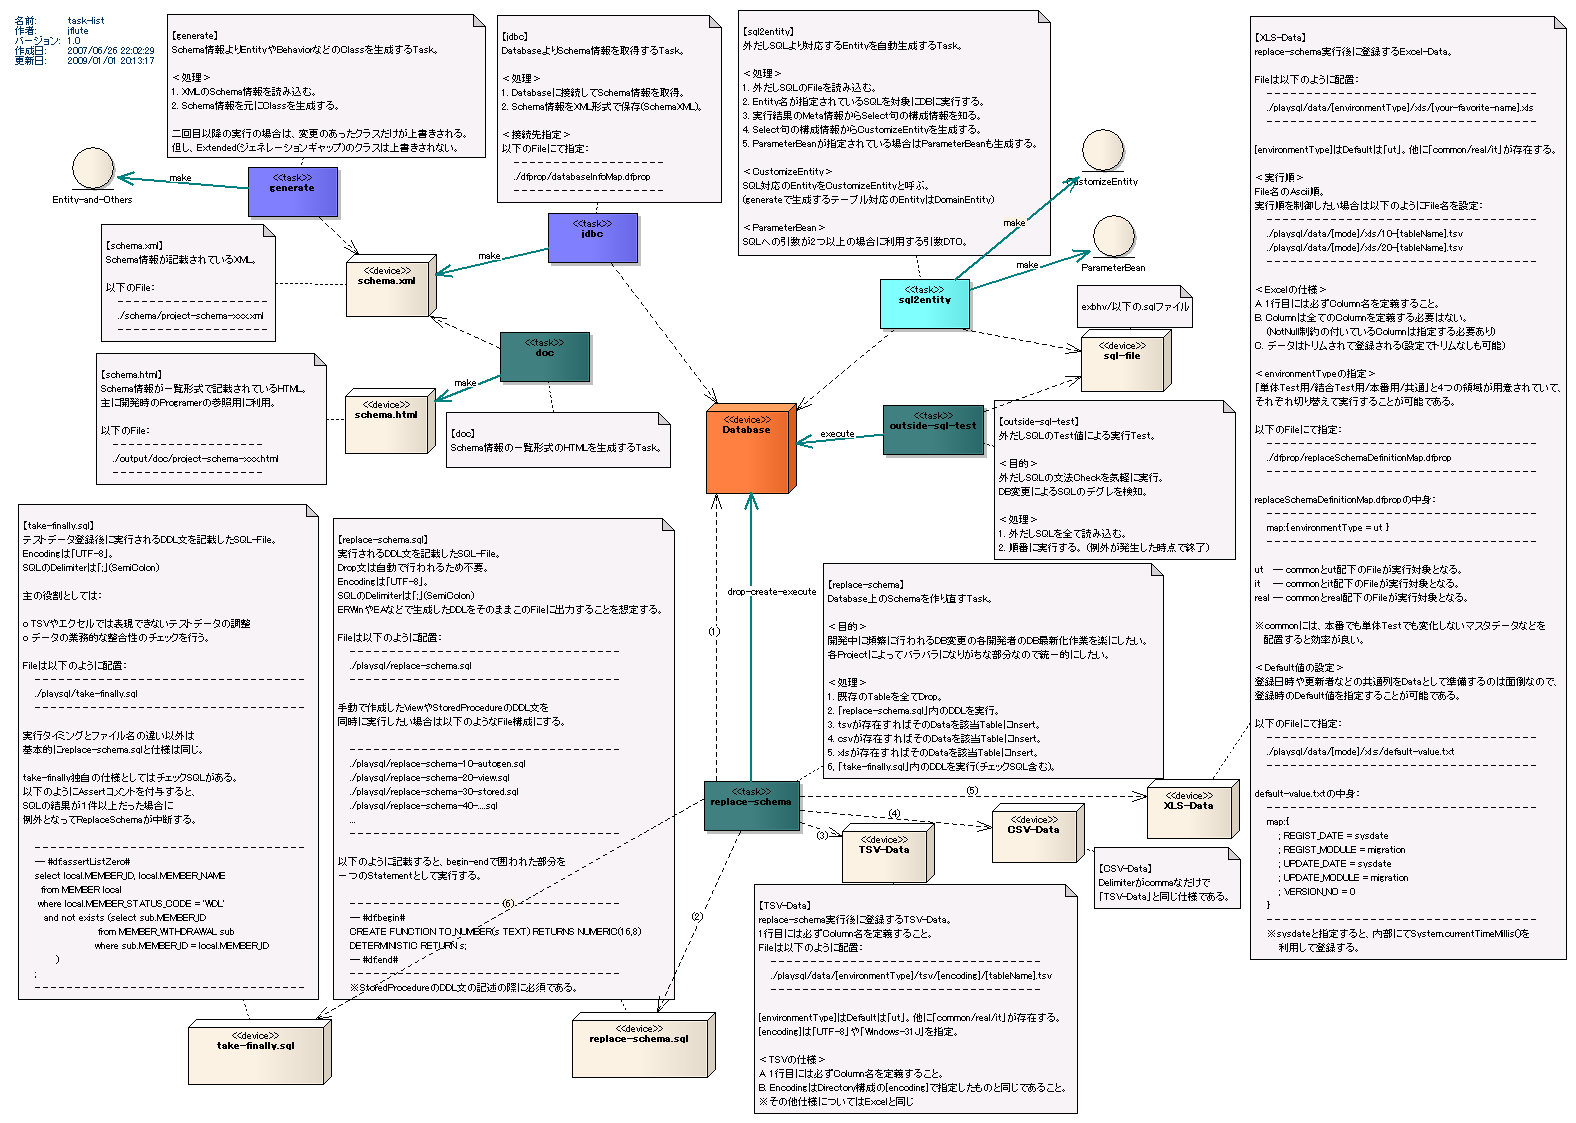
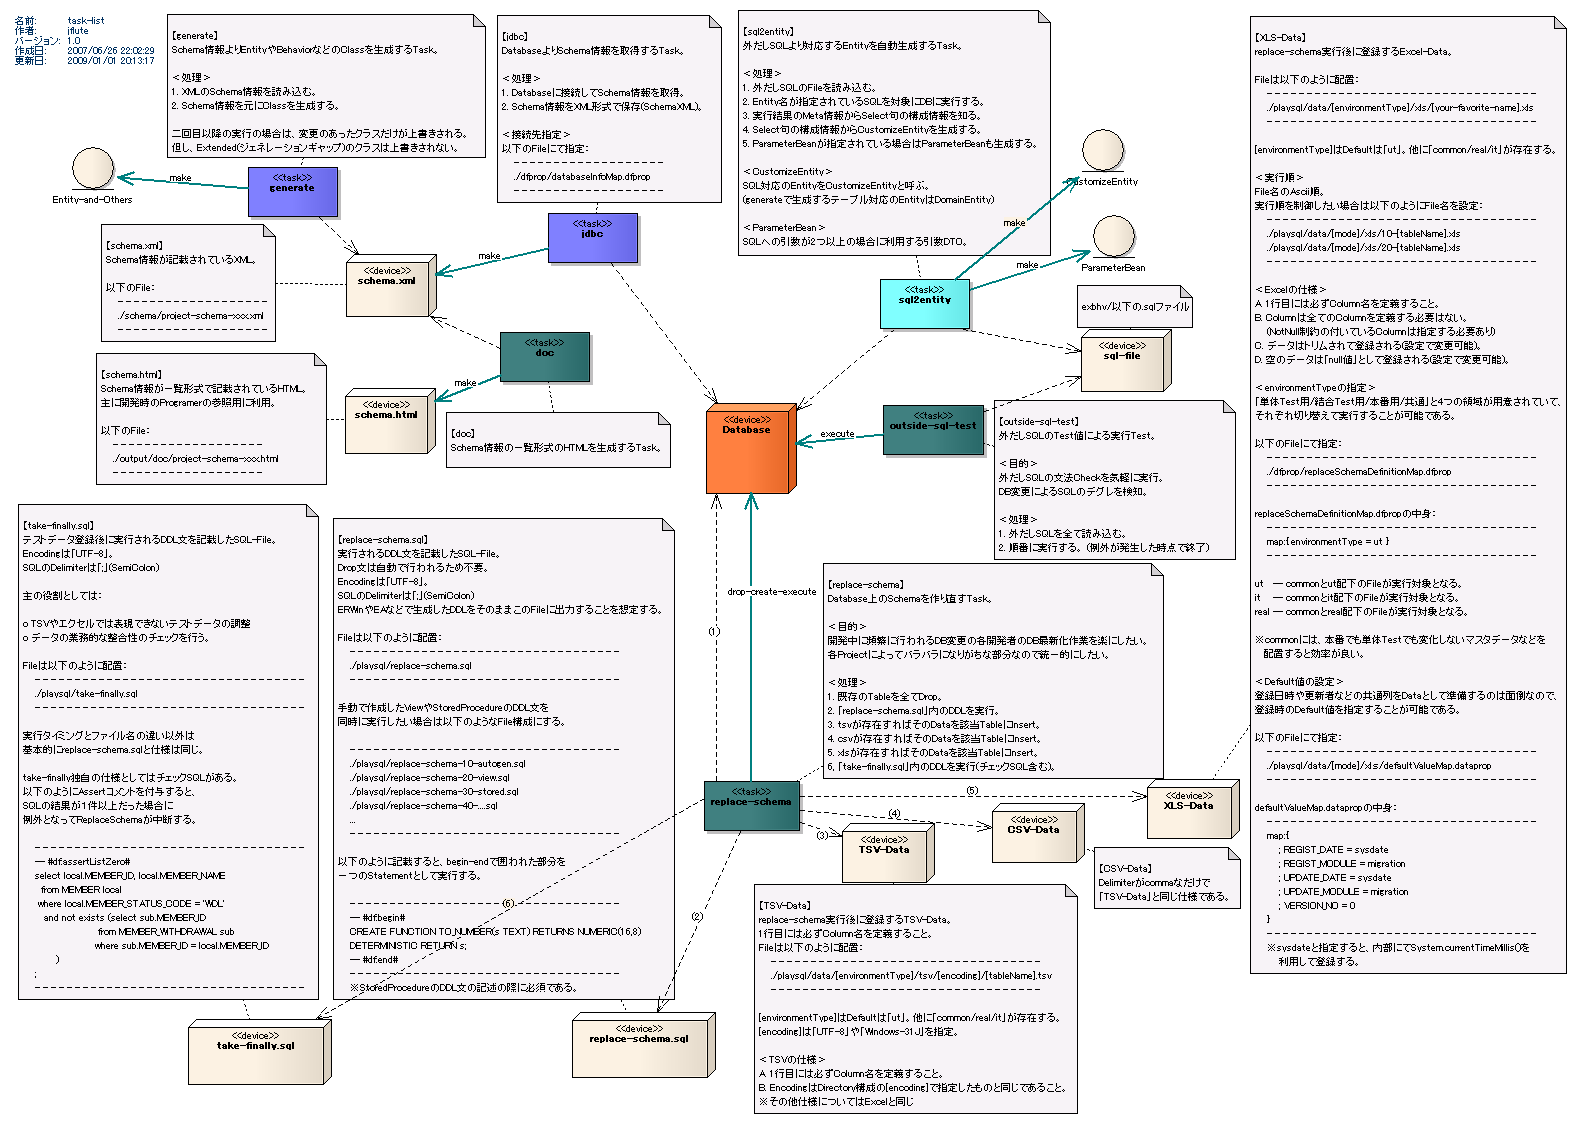
Prepare 90.
git-svn-id: https://www.seasar.org/svn/dbflute/trunk/www@10546 b65849cc-091c-4ecd-8ca6-0d794ba8cb45

Changed region(s): [[0.8084, 0.3117, 0.9949, 0.6857], [0.8084, 0.7168, 0.9638, 0.8727]]

diff --git a/view/concept/basic/task/EARoot/EA14.html b/view/concept/basic/task/EARoot/EA14.html
@@ -24,7 +24,7 @@ function initPage(src) {
 		</tr>
 		<tr>
 			<td class="ObjectDetailsTopic">更新日:</td>
-			<td class="ObjectDetailsValue">2009/01/01 20:00:05</td>
+			<td class="ObjectDetailsValue">2009/01/22 10:29:50</td>
 		</tr>
 		<tr style="height: 10px"><td colspan="2"></td></tr>
 		<tr>
@@ -64,7 +64,7 @@ function initPage(src) {
 			<td class="ObjectDetailsValue"><a href="EA1.html">task-list</a></td>
 		</tr>
 	</table>
-	<div class="ObjectDetailsNotes">&lt;p&gt;&#12304;XLS-Data&#12305;&lt;br/&gt;&lt;/p&gt;&lt;p&gt;replace-schema&#23455;&#34892;&#24460;&#12395;&#30331;&#37682;&#12377;&#12427;Excel-Data&#12290;&lt;br/&gt;&lt;/p&gt;&lt;p&gt;&lt;br/&gt;&lt;/p&gt;&lt;p&gt;File&#12399;&#20197;&#19979;&#12398;&#12424;&#12358;&#12395;&#37197;&#32622;&#65306;&lt;br/&gt;&lt;/p&gt;&lt;p&gt;&#160;&#160;&#160; - - - - - - - - - - - - - - - - - - - - - - - - - - - - - - - - - -&lt;br/&gt;&lt;/p&gt;&lt;p&gt;&#160;&#160;&#160; ./playsql/data/[environmentType]/xls/[your-favorite-name].xls&lt;br/&gt;&lt;/p&gt;&lt;p&gt;&#160;&#160;&#160; - - - - - - - - - - - - - - - - - - - - - - - - - - - - - - - - - -&lt;br/&gt;&lt;/p&gt;&lt;p&gt;&lt;br/&gt;&lt;/p&gt;&lt;p&gt;[environmentType]&#12399;Default&#12399;&#12300;ut&#12301;&#12290;&#20182;&#12395;&#12300;common/real/it&#12301;&#12364;&#23384;&#22312;&#12377;&#12427;&#12290;&lt;br/&gt;&lt;/p&gt;&lt;p&gt;&lt;br/&gt;&lt;/p&gt;&lt;p&gt;&#65308;&#23455;&#34892;&#38918;&#65310;&lt;br/&gt;&lt;/p&gt;&lt;p&gt;File&#21517;&#12398;Ascii&#38918;&#12290;&lt;br/&gt;&lt;/p&gt;&lt;p&gt;&#23455;&#34892;&#38918;&#12434;&#21046;&#24481;&#12375;&#12383;&#12356;&#22580;&#21512;&#12399;&#20197;&#19979;&#12398;&#12424;&#12358;&#12395;File&#21517;&#12434;&#35373;&#23450;&#65306;&lt;br/&gt;&lt;/p&gt;&lt;p&gt;&#160;&#160;&#160; - - - - - - - - - - - - - - - - - - - - - - - - - - - - - - - - - -&lt;br/&gt;&lt;/p&gt;&lt;p&gt;&#160;&#160;&#160; ./playsql/data/[mode]/xls/10-[tableName].tsv&lt;br/&gt;&lt;/p&gt;&lt;p&gt;&#160;&#160;&#160; ./playsql/data/[mode]/xls/20-[tableName].tsv&lt;br/&gt;&lt;/p&gt;&lt;p&gt;&#160;&#160;&#160; - - - - - - - - - - - - - - - - - - - - - - - - - - - - - - - - - -&lt;br/&gt;&lt;/p&gt;&lt;p&gt;&lt;br/&gt;&lt;/p&gt;&lt;p&gt;&#65308;Excel&#12398;&#20181;&#27096;&#65310;&lt;br/&gt;&lt;/p&gt;&lt;p&gt;A. 1&#34892;&#30446;&#12395;&#12399;&#24517;&#12378;Column&#21517;&#12434;&#23450;&#32681;&#12377;&#12427;&#12371;&#12392;&#12290;&lt;br/&gt;&lt;/p&gt;&lt;p&gt;B. Column&#12399;&#20840;&#12390;&#12398;Column&#12434;&#23450;&#32681;&#12377;&#12427;&#24517;&#35201;&#12399;&#12394;&#12356;&#12290;&lt;br/&gt;&lt;/p&gt;&lt;p&gt;&#160;&#160;&#160; (NotNull&#21046;&#32004;&#12398;&#20184;&#12356;&#12390;&#12356;&#12427;Column&#12399;&#25351;&#23450;&#12377;&#12427;&#24517;&#35201;&#12354;&#12426;)&lt;br/&gt;&lt;/p&gt;&lt;p&gt;C. &#12487;&#12540;&#12479;&#12399;&#12488;&#12522;&#12512;&#12373;&#12428;&#12390;&#30331;&#37682;&#12373;&#12428;&#12427;(&#35373;&#23450;&#12391;&#12488;&#12522;&#12512;&#12394;&#12375;&#12418;&#21487;&#33021;)&lt;br/&gt;&lt;/p&gt;&lt;p&gt;&lt;br/&gt;&lt;/p&gt;&lt;p&gt;&#65308;environmentType&#12398;&#25351;&#23450;&#65310;&lt;br/&gt;&lt;/p&gt;&lt;p&gt;&#12300;&#21336;&#20307;Test&#29992;/&#32080;&#21512;Test&#29992;/&#26412;&#30058;&#29992;/&#20849;&#36890;&#12301;&#12392;4&#12388;&#12398;&#38936;&#22495;&#12364;&#29992;&#24847;&#12373;&#12428;&#12390;&#12356;&#12390;&#12289;&lt;br/&gt;&lt;/p&gt;&lt;p&gt;&#12381;&#12428;&#12382;&#12428;&#20999;&#12426;&#26367;&#12360;&#12390;&#23455;&#34892;&#12377;&#12427;&#12371;&#12392;&#12364;&#21487;&#33021;&#12391;&#12354;&#12427;&#12290;&lt;br/&gt;&lt;/p&gt;&lt;p&gt;&lt;br/&gt;&lt;/p&gt;&lt;p&gt;&#20197;&#19979;&#12398;File&#12395;&#12390;&#25351;&#23450;&#65306;&lt;br/&gt;&lt;/p&gt;&lt;p&gt;&#160;&#160;&#160; - - - - - - - - - - - - - - - - - - - - - - - - - - - - - - - - - -&lt;br/&gt;&lt;/p&gt;&lt;p&gt;&#160;&#160;&#160; ./dfprop/replaceSchemaDefinitionMap.dfprop&lt;br/&gt;&lt;/p&gt;&lt;p&gt;&#160;&#160;&#160; - - - - - - - - - - - - - - - - - - - - - - - - - - - - - - - - - -&lt;br/&gt;&lt;/p&gt;&lt;p&gt;&lt;br/&gt;&lt;/p&gt;&lt;p&gt;replaceSchemaDefinitionMap.dfprop&#12398;&#20013;&#36523;&#65306;&lt;br/&gt;&lt;/p&gt;&lt;p&gt;&#160;&#160;&#160; - - - - - - - - - - - - - - - - - - - - - - - - - - - - - - - - - -&lt;br/&gt;&lt;/p&gt;&lt;p&gt;&#160;&#160;&#160; map:{ environmentType = ut }&lt;br/&gt;&lt;/p&gt;&lt;p&gt;&#160;&#160;&#160; - - - - - - - - - - - - - - - - - - - - - - - - - - - - - - - - - -&lt;br/&gt;&lt;/p&gt;&lt;p&gt;&lt;br/&gt;&lt;/p&gt;&lt;p&gt;ut&#160;&#160; -- common&#12392;ut&#37197;&#19979;&#12398;File&#12364;&#23455;&#34892;&#23550;&#35937;&#12392;&#12394;&#12427;&#12290;&lt;br/&gt;&lt;/p&gt;&lt;p&gt;it&#160;&#160;&#160; -- common&#12392;it&#37197;&#19979;&#12398;File&#12364;&#23455;&#34892;&#23550;&#35937;&#12392;&#12394;&#12427;&#12290;&lt;br/&gt;&lt;/p&gt;&lt;p&gt;real -- common&#12392;real&#37197;&#19979;&#12398;File&#12364;&#23455;&#34892;&#23550;&#35937;&#12392;&#12394;&#12427;&#12290;&lt;br/&gt;&lt;/p&gt;&lt;p&gt;&lt;br/&gt;&lt;/p&gt;&lt;p&gt;&#8251;common&#12395;&#12399;&#12289;&#26412;&#30058;&#12391;&#12418;&#21336;&#20307;Test&#12391;&#12418;&#22793;&#21270;&#12375;&#12394;&#12356;&#12510;&#12473;&#12479;&#12487;&#12540;&#12479;&#12394;&#12393;&#12434;&lt;br/&gt;&lt;/p&gt;&lt;p&gt;&#160;&#160; &#37197;&#32622;&#12377;&#12427;&#12392;&#21177;&#29575;&#12364;&#33391;&#12356;&#12290;&lt;br/&gt;&lt;/p&gt;&lt;p&gt;&lt;br/&gt;&lt;/p&gt;&lt;p&gt;&#65308;Default&#20516;&#12398;&#35373;&#23450;&#65310;&lt;br/&gt;&lt;/p&gt;&lt;p&gt;&#30331;&#37682;&#26085;&#26178;&#12420;&#26356;&#26032;&#32773;&#12394;&#12393;&#12398;&#20849;&#36890;&#21015;&#12434;Data&#12392;&#12375;&#12390;&#28310;&#20633;&#12377;&#12427;&#12398;&#12399;&#38754;&#20498;&#12394;&#12398;&#12391;&#12289;&lt;br/&gt;&lt;/p&gt;&lt;p&gt;&#30331;&#37682;&#26178;&#12398;Default&#20516;&#12434;&#25351;&#23450;&#12377;&#12427;&#12371;&#12392;&#12364;&#21487;&#33021;&#12391;&#12354;&#12427;&#12290;&lt;br/&gt;&lt;/p&gt;&lt;p&gt;&lt;br/&gt;&lt;/p&gt;&lt;p&gt;&#20197;&#19979;&#12398;File&#12395;&#12390;&#25351;&#23450;&#65306;&lt;br/&gt;&lt;/p&gt;&lt;p&gt;&#160;&#160;&#160; - - - - - - - - - - - - - - - - - - - - - - - - - - - - - - - - - -&lt;br/&gt;&lt;/p&gt;&lt;p&gt;&#160;&#160;&#160; ./playsql/data/[mode]/&#65368;&#65356;&#65363;/default-value.txt&lt;br/&gt;&lt;/p&gt;&lt;p&gt;&#160;&#160;&#160; - - - - - - - - - - - - - - - - - - - - - - - - - - - - - - - - - -&lt;br/&gt;&lt;/p&gt;&lt;p&gt;&lt;br/&gt;&lt;/p&gt;&lt;p&gt;default-value.txt&#12398;&#20013;&#36523;&#65306;&lt;br/&gt;&lt;/p&gt;&lt;p&gt;&#160;&#160;&#160; - - - - - - - - - - - - - - - - - - - - - - - - - - - - - - - - - -&lt;br/&gt;&lt;/p&gt;&lt;p&gt;&#160;&#160;&#160; map:{&lt;br/&gt;&lt;/p&gt;&lt;p&gt;&#160;&#160;&#160;&#160;&#160;&#160;&#160; ; REGIST_DATE = sysdate&lt;br/&gt;&lt;/p&gt;&lt;p&gt;&#160;&#160;&#160;&#160;&#160;&#160;&#160; ; REGIST_MODULE = migration&lt;br/&gt;&lt;/p&gt;&lt;p&gt;&#160;&#160;&#160;&#160;&#160;&#160;&#160; ; UPDATE_DATE = sysdate&lt;br/&gt;&lt;/p&gt;&lt;p&gt;&#160;&#160;&#160;&#160;&#160;&#160;&#160; ; UPDATE_MODULE = migration&lt;br/&gt;&lt;/p&gt;&lt;p&gt;&#160;&#160;&#160;&#160;&#160;&#160;&#160; ; VERSION_NO = 0&lt;br/&gt;&lt;/p&gt;&lt;p&gt;&#160;&#160;&#160; }&lt;br/&gt;&lt;/p&gt;&lt;p&gt;&#160;&#160;&#160; - - - - - - - - - - - - - - - - - - - - - - - - - - - - - - - - - -&lt;br/&gt;&lt;/p&gt;&lt;p&gt;&#160;&#160;&#160; &#8251;sysdate&#12392;&#25351;&#23450;&#12377;&#12427;&#12392;&#12289;&#20869;&#37096;&#12395;&#12390;System.currentTimeMillis()&#12434;&lt;br/&gt;&lt;/p&gt;&lt;p&gt;&#160;&#160;&#160;&#160;&#160;&#160;&#160; &#21033;&#29992;&#12375;&#12390;&#30331;&#37682;&#12377;&#12427;&#12290;&lt;br/&gt;&lt;/p&gt;</div>
+	<div class="ObjectDetailsNotes">&lt;p&gt;&#12304;XLS-Data&#12305;&lt;br/&gt;&lt;/p&gt;&lt;p&gt;replace-schema&#23455;&#34892;&#24460;&#12395;&#30331;&#37682;&#12377;&#12427;Excel-Data&#12290;&lt;br/&gt;&lt;/p&gt;&lt;p&gt;&lt;br/&gt;&lt;/p&gt;&lt;p&gt;File&#12399;&#20197;&#19979;&#12398;&#12424;&#12358;&#12395;&#37197;&#32622;&#65306;&lt;br/&gt;&lt;/p&gt;&lt;p&gt;&#160;&#160;&#160; - - - - - - - - - - - - - - - - - - - - - - - - - - - - - - - - - -&lt;br/&gt;&lt;/p&gt;&lt;p&gt;&#160;&#160;&#160; ./playsql/data/[environmentType]/xls/[your-favorite-name].xls&lt;br/&gt;&lt;/p&gt;&lt;p&gt;&#160;&#160;&#160; - - - - - - - - - - - - - - - - - - - - - - - - - - - - - - - - - -&lt;br/&gt;&lt;/p&gt;&lt;p&gt;&lt;br/&gt;&lt;/p&gt;&lt;p&gt;[environmentType]&#12399;Default&#12399;&#12300;ut&#12301;&#12290;&#20182;&#12395;&#12300;common/real/it&#12301;&#12364;&#23384;&#22312;&#12377;&#12427;&#12290;&lt;br/&gt;&lt;/p&gt;&lt;p&gt;&lt;br/&gt;&lt;/p&gt;&lt;p&gt;&#65308;&#23455;&#34892;&#38918;&#65310;&lt;br/&gt;&lt;/p&gt;&lt;p&gt;File&#21517;&#12398;Ascii&#38918;&#12290;&lt;br/&gt;&lt;/p&gt;&lt;p&gt;&#23455;&#34892;&#38918;&#12434;&#21046;&#24481;&#12375;&#12383;&#12356;&#22580;&#21512;&#12399;&#20197;&#19979;&#12398;&#12424;&#12358;&#12395;File&#21517;&#12434;&#35373;&#23450;&#65306;&lt;br/&gt;&lt;/p&gt;&lt;p&gt;&#160;&#160;&#160; - - - - - - - - - - - - - - - - - - - - - - - - - - - - - - - - - -&lt;br/&gt;&lt;/p&gt;&lt;p&gt;&#160;&#160;&#160; ./playsql/data/[mode]/xls/10-[tableName].xls&lt;br/&gt;&lt;/p&gt;&lt;p&gt;&#160;&#160;&#160; ./playsql/data/[mode]/xls/20-[tableName].xls&lt;br/&gt;&lt;/p&gt;&lt;p&gt;&#160;&#160;&#160; - - - - - - - - - - - - - - - - - - - - - - - - - - - - - - - - - -&lt;br/&gt;&lt;/p&gt;&lt;p&gt;&lt;br/&gt;&lt;/p&gt;&lt;p&gt;&#65308;Excel&#12398;&#20181;&#27096;&#65310;&lt;br/&gt;&lt;/p&gt;&lt;p&gt;A. 1&#34892;&#30446;&#12395;&#12399;&#24517;&#12378;Column&#21517;&#12434;&#23450;&#32681;&#12377;&#12427;&#12371;&#12392;&#12290;&lt;br/&gt;&lt;/p&gt;&lt;p&gt;B. Column&#12399;&#20840;&#12390;&#12398;Column&#12434;&#23450;&#32681;&#12377;&#12427;&#24517;&#35201;&#12399;&#12394;&#12356;&#12290;&lt;br/&gt;&lt;/p&gt;&lt;p&gt;&#160;&#160;&#160; (NotNull&#21046;&#32004;&#12398;&#20184;&#12356;&#12390;&#12356;&#12427;Column&#12399;&#25351;&#23450;&#12377;&#12427;&#24517;&#35201;&#12354;&#12426;)&lt;br/&gt;&lt;/p&gt;&lt;p&gt;C. &#12487;&#12540;&#12479;&#12399;&#12488;&#12522;&#12512;&#12373;&#12428;&#12390;&#30331;&#37682;&#12373;&#12428;&#12427;(&#35373;&#23450;&#12391;&#22793;&#26356;&#21487;&#33021;)&#12290;&lt;br/&gt;&lt;/p&gt;&lt;p&gt;D. &#31354;&#12398;&#12487;&#12540;&#12479;&#12399;&#12300;null&#20516;&#12301;&#12392;&#12375;&#12390;&#30331;&#37682;&#12373;&#12428;&#12427;(&#35373;&#23450;&#12391;&#22793;&#26356;&#21487;&#33021;)&#12290;&lt;br/&gt;&lt;/p&gt;&lt;p&gt;&lt;br/&gt;&lt;/p&gt;&lt;p&gt;&#65308;environmentType&#12398;&#25351;&#23450;&#65310;&lt;br/&gt;&lt;/p&gt;&lt;p&gt;&#12300;&#21336;&#20307;Test&#29992;/&#32080;&#21512;Test&#29992;/&#26412;&#30058;&#29992;/&#20849;&#36890;&#12301;&#12392;4&#12388;&#12398;&#38936;&#22495;&#12364;&#29992;&#24847;&#12373;&#12428;&#12390;&#12356;&#12390;&#12289;&lt;br/&gt;&lt;/p&gt;&lt;p&gt;&#12381;&#12428;&#12382;&#12428;&#20999;&#12426;&#26367;&#12360;&#12390;&#23455;&#34892;&#12377;&#12427;&#12371;&#12392;&#12364;&#21487;&#33021;&#12391;&#12354;&#12427;&#12290;&lt;br/&gt;&lt;/p&gt;&lt;p&gt;&lt;br/&gt;&lt;/p&gt;&lt;p&gt;&#20197;&#19979;&#12398;File&#12395;&#12390;&#25351;&#23450;&#65306;&lt;br/&gt;&lt;/p&gt;&lt;p&gt;&#160;&#160;&#160; - - - - - - - - - - - - - - - - - - - - - - - - - - - - - - - - - -&lt;br/&gt;&lt;/p&gt;&lt;p&gt;&#160;&#160;&#160; ./dfprop/replaceSchemaDefinitionMap.dfprop&lt;br/&gt;&lt;/p&gt;&lt;p&gt;&#160;&#160;&#160; - - - - - - - - - - - - - - - - - - - - - - - - - - - - - - - - - -&lt;br/&gt;&lt;/p&gt;&lt;p&gt;&lt;br/&gt;&lt;/p&gt;&lt;p&gt;replaceSchemaDefinitionMap.dfprop&#12398;&#20013;&#36523;&#65306;&lt;br/&gt;&lt;/p&gt;&lt;p&gt;&#160;&#160;&#160; - - - - - - - - - - - - - - - - - - - - - - - - - - - - - - - - - -&lt;br/&gt;&lt;/p&gt;&lt;p&gt;&#160;&#160;&#160; map:{ environmentType = ut }&lt;br/&gt;&lt;/p&gt;&lt;p&gt;&#160;&#160;&#160; - - - - - - - - - - - - - - - - - - - - - - - - - - - - - - - - - -&lt;br/&gt;&lt;/p&gt;&lt;p&gt;&lt;br/&gt;&lt;/p&gt;&lt;p&gt;ut&#160;&#160; -- common&#12392;ut&#37197;&#19979;&#12398;File&#12364;&#23455;&#34892;&#23550;&#35937;&#12392;&#12394;&#12427;&#12290;&lt;br/&gt;&lt;/p&gt;&lt;p&gt;it&#160;&#160;&#160; -- common&#12392;it&#37197;&#19979;&#12398;File&#12364;&#23455;&#34892;&#23550;&#35937;&#12392;&#12394;&#12427;&#12290;&lt;br/&gt;&lt;/p&gt;&lt;p&gt;real -- common&#12392;real&#37197;&#19979;&#12398;File&#12364;&#23455;&#34892;&#23550;&#35937;&#12392;&#12394;&#12427;&#12290;&lt;br/&gt;&lt;/p&gt;&lt;p&gt;&lt;br/&gt;&lt;/p&gt;&lt;p&gt;&#8251;common&#12395;&#12399;&#12289;&#26412;&#30058;&#12391;&#12418;&#21336;&#20307;Test&#12391;&#12418;&#22793;&#21270;&#12375;&#12394;&#12356;&#12510;&#12473;&#12479;&#12487;&#12540;&#12479;&#12394;&#12393;&#12434;&lt;br/&gt;&lt;/p&gt;&lt;p&gt;&#160;&#160; &#37197;&#32622;&#12377;&#12427;&#12392;&#21177;&#29575;&#12364;&#33391;&#12356;&#12290;&lt;br/&gt;&lt;/p&gt;&lt;p&gt;&lt;br/&gt;&lt;/p&gt;&lt;p&gt;&#65308;Default&#20516;&#12398;&#35373;&#23450;&#65310;&lt;br/&gt;&lt;/p&gt;&lt;p&gt;&#30331;&#37682;&#26085;&#26178;&#12420;&#26356;&#26032;&#32773;&#12394;&#12393;&#12398;&#20849;&#36890;&#21015;&#12434;Data&#12392;&#12375;&#12390;&#28310;&#20633;&#12377;&#12427;&#12398;&#12399;&#38754;&#20498;&#12394;&#12398;&#12391;&#12289;&lt;br/&gt;&lt;/p&gt;&lt;p&gt;&#30331;&#37682;&#26178;&#12398;Default&#20516;&#12434;&#25351;&#23450;&#12377;&#12427;&#12371;&#12392;&#12364;&#21487;&#33021;&#12391;&#12354;&#12427;&#12290;&lt;br/&gt;&lt;/p&gt;&lt;p&gt;&lt;br/&gt;&lt;/p&gt;&lt;p&gt;&#20197;&#19979;&#12398;File&#12395;&#12390;&#25351;&#23450;&#65306;&lt;br/&gt;&lt;/p&gt;&lt;p&gt;&#160;&#160;&#160; - - - - - - - - - - - - - - - - - - - - - - - - - - - - - - - - - -&lt;br/&gt;&lt;/p&gt;&lt;p&gt;&#160;&#160;&#160; ./playsql/data/[mode]/&#65368;&#65356;&#65363;/defaultValueMap.dataprop&lt;br/&gt;&lt;/p&gt;&lt;p&gt;&#160;&#160;&#160; - - - - - - - - - - - - - - - - - - - - - - - - - - - - - - - - - -&lt;br/&gt;&lt;/p&gt;&lt;p&gt;&lt;br/&gt;&lt;/p&gt;&lt;p&gt;defaultValueMap.dataprop&#12398;&#20013;&#36523;&#65306;&lt;br/&gt;&lt;/p&gt;&lt;p&gt;&#160;&#160;&#160; - - - - - - - - - - - - - - - - - - - - - - - - - - - - - - - - - -&lt;br/&gt;&lt;/p&gt;&lt;p&gt;&#160;&#160;&#160; map:{&lt;br/&gt;&lt;/p&gt;&lt;p&gt;&#160;&#160;&#160;&#160;&#160;&#160;&#160; ; REGIST_DATE = sysdate&lt;br/&gt;&lt;/p&gt;&lt;p&gt;&#160;&#160;&#160;&#160;&#160;&#160;&#160; ; REGIST_MODULE = migration&lt;br/&gt;&lt;/p&gt;&lt;p&gt;&#160;&#160;&#160;&#160;&#160;&#160;&#160; ; UPDATE_DATE = sysdate&lt;br/&gt;&lt;/p&gt;&lt;p&gt;&#160;&#160;&#160;&#160;&#160;&#160;&#160; ; UPDATE_MODULE = migration&lt;br/&gt;&lt;/p&gt;&lt;p&gt;&#160;&#160;&#160;&#160;&#160;&#160;&#160; ; VERSION_NO = 0&lt;br/&gt;&lt;/p&gt;&lt;p&gt;&#160;&#160;&#160; }&lt;br/&gt;&lt;/p&gt;&lt;p&gt;&#160;&#160;&#160; - - - - - - - - - - - - - - - - - - - - - - - - - - - - - - - - - -&lt;br/&gt;&lt;/p&gt;&lt;p&gt;&#160;&#160;&#160; &#8251;sysdate&#12392;&#25351;&#23450;&#12377;&#12427;&#12392;&#12289;&#20869;&#37096;&#12395;&#12390;System.currentTimeMillis()&#12434;&lt;br/&gt;&lt;/p&gt;&lt;p&gt;&#160;&#160;&#160;&#160;&#160;&#160;&#160; &#21033;&#29992;&#12375;&#12390;&#30331;&#37682;&#12377;&#12427;&#12290;&lt;br/&gt;&lt;/p&gt;</div>
 
 <div class="pageFooter"></div>
  

diff --git a/view/concept/basic/task/EARoot/EA1.html b/view/concept/basic/task/EARoot/EA1.html
@@ -30,7 +30,6 @@ function initPage(src) {
 <area shape="rect" coords="101,224,275,341" href="EA17.html">
 <area shape="rect" coords="497,15,721,202" href="EA19.html">
 <area shape="rect" coords="333,518,674,999" href="EA20.html">
-<area shape="rect" coords="1250,16,1566,959" href="EA14.html">
 <area shape="rect" coords="1094,847,1240,908" href="EA12.html">
 <area shape="rect" coords="754,884,1077,1113" href="EA11.html">
 <area shape="rect" coords="823,563,1163,778" href="EA10.html">
@@ -39,6 +38,7 @@ function initPage(src) {
 <area shape="rect" coords="842,823,934,882" href="EA34.html">
 <area shape="rect" coords="572,1012,715,1077" href="EA5.html">
 <area shape="rect" coords="1077,285,1192,327" href="EA8.html">
+<area shape="rect" coords="1250,16,1566,973" href="EA14.html">
 <area shape="rect" coords="1089,215,1139,272" href="EA4.html">
 <area shape="rect" coords="1078,129,1128,186" href="EA3.html">
 <area shape="rect" coords="68,147,118,204" href="EA25.html">

diff --git a/view/concept/basic/task/index.html b/view/concept/basic/task/index.html
@@ -6,7 +6,7 @@
 <link href="css/ea.css" rel="stylesheet" type="text/css" />
 <script language="JavaScript" src="js/displayToc.js" type="text/javascript"></script>
 </head>
-<body onload="initLoad(this,'toc.html','blank.html')" onresize="resizePage()">
+<body onload="initLoad(this,'toc.html','./EARoot/EA1.html')" onresize="resizePage()">
 <div class="IndexTitle">
 	task
 </div>
